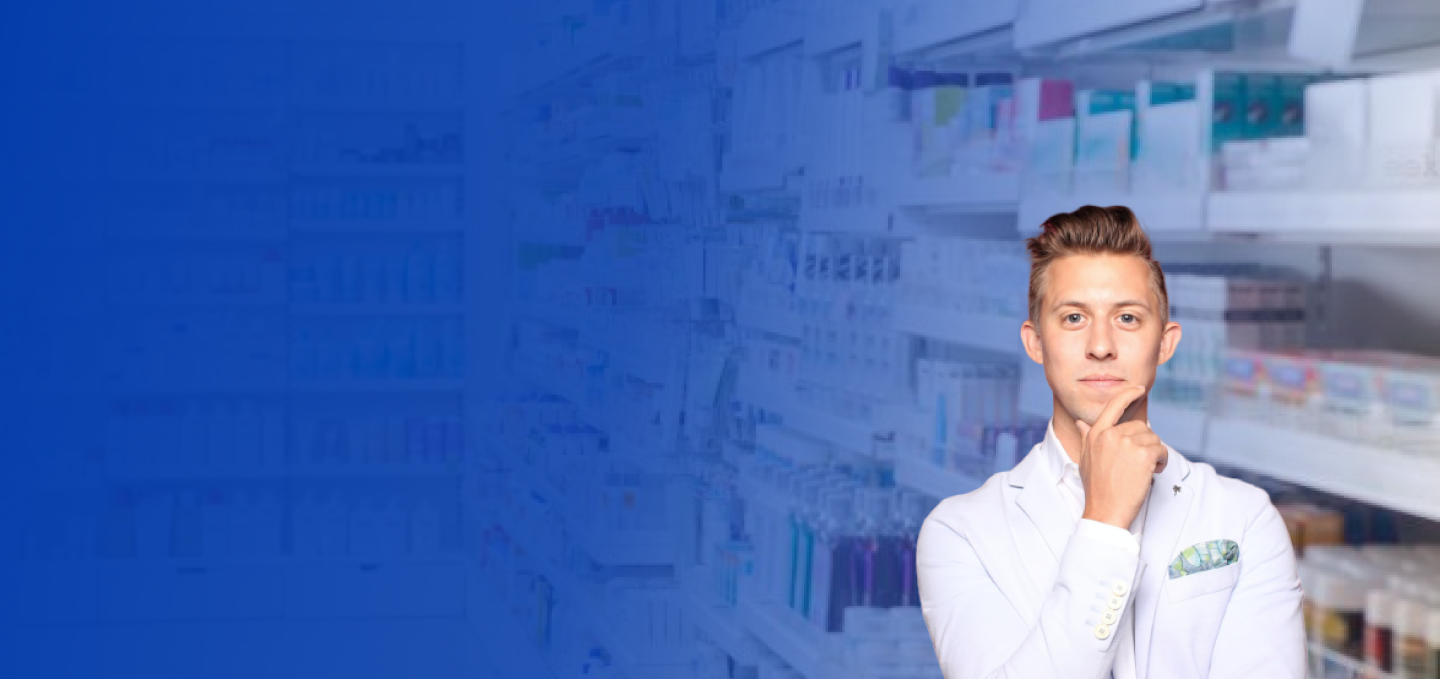
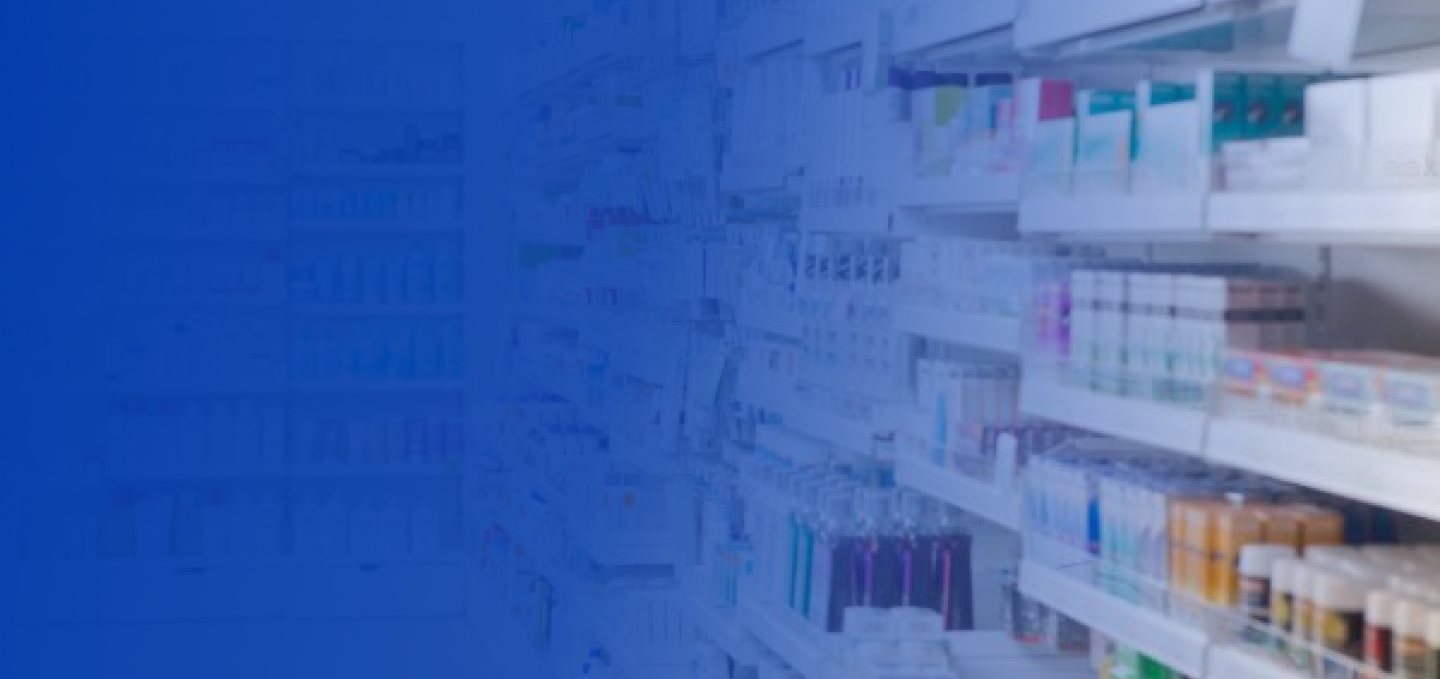
changed to  header back img

Changed region(s): [[0.625, 0.2784, 0.9062, 1.0]]

diff --git a/css/styles.css b/css/styles.css
@@ -21,6 +21,7 @@ header {
   background-size: 100%;
   background-repeat: no-repeat;
   width: 100%;
+  height: 100%;
 }
 nav ul li {
   font-size: 16px;
@@ -278,6 +279,12 @@ footer div p {
 }
 @media screen and (max-width: 510px) {
   h3 {
-    font-size: 12px;
+    font-size: 16px;
+  }
+}
+@media screen and (max-width: 705px){
+  .buttonn{
+    display: flex;
+    flex-wrap: wrap;
   }
 }
